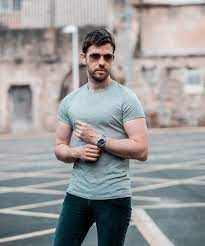
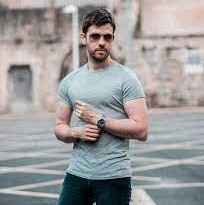
about_us style enhanced 👻

diff --git a/cami-on-web/about_us.html b/cami-on-web/about_us.html
@@ -32,7 +32,7 @@
         <br>
         <table>
             <tr>
-                <td><img class="portrait" src="img/portraits/Ivanov.jpg" alt="Ivanov" style="width: 200pt;"></td>
+                <td><img class="portrait" src="img/portraits/Hector.jpg" alt="Hector" style="width: 200pt;"></td>
                 <td class="info" style="text-align: left;">
                     <h2>Héctor Daniel Navarro Torrez</h2>
                     <p>Estudiante de Ingeniería en desarrollo y gestión de software de la Universidad Tecnológica de Nayarit</p>

diff --git a/cami-on-web/styles/about_us.css b/cami-on-web/styles/about_us.css
@@ -1,16 +1,16 @@
 .portrait{
-    border-radius: 0.1em;
+    border-radius: 50%;
     height: 100%;
     width: auto;
 }
 
 .info{
-    background-color: rgba(0, 0, 0, 0.6);
-    border-radius: 0.1em;
-    color: white;
+    background-color: rgba(0, 0, 0, 0.452);
+    border-radius: 0.2em;
+    color: rgb(255, 255, 255);
     padding: 10px;
+    vertical-align: text-top;
 }
-
 
 table{
     padding-bottom: 15px;

diff --git a/cami-on-web/styles/style.css b/cami-on-web/styles/style.css
@@ -38,7 +38,7 @@ body {
     margin-left: auto;
     margin-top: 58px;
     padding: 10px;
-    text-shadow: 2px 2px 2px #000000;
+    text-shadow: 1px 1px 2px #000000;
 }
 
 .buscador {
